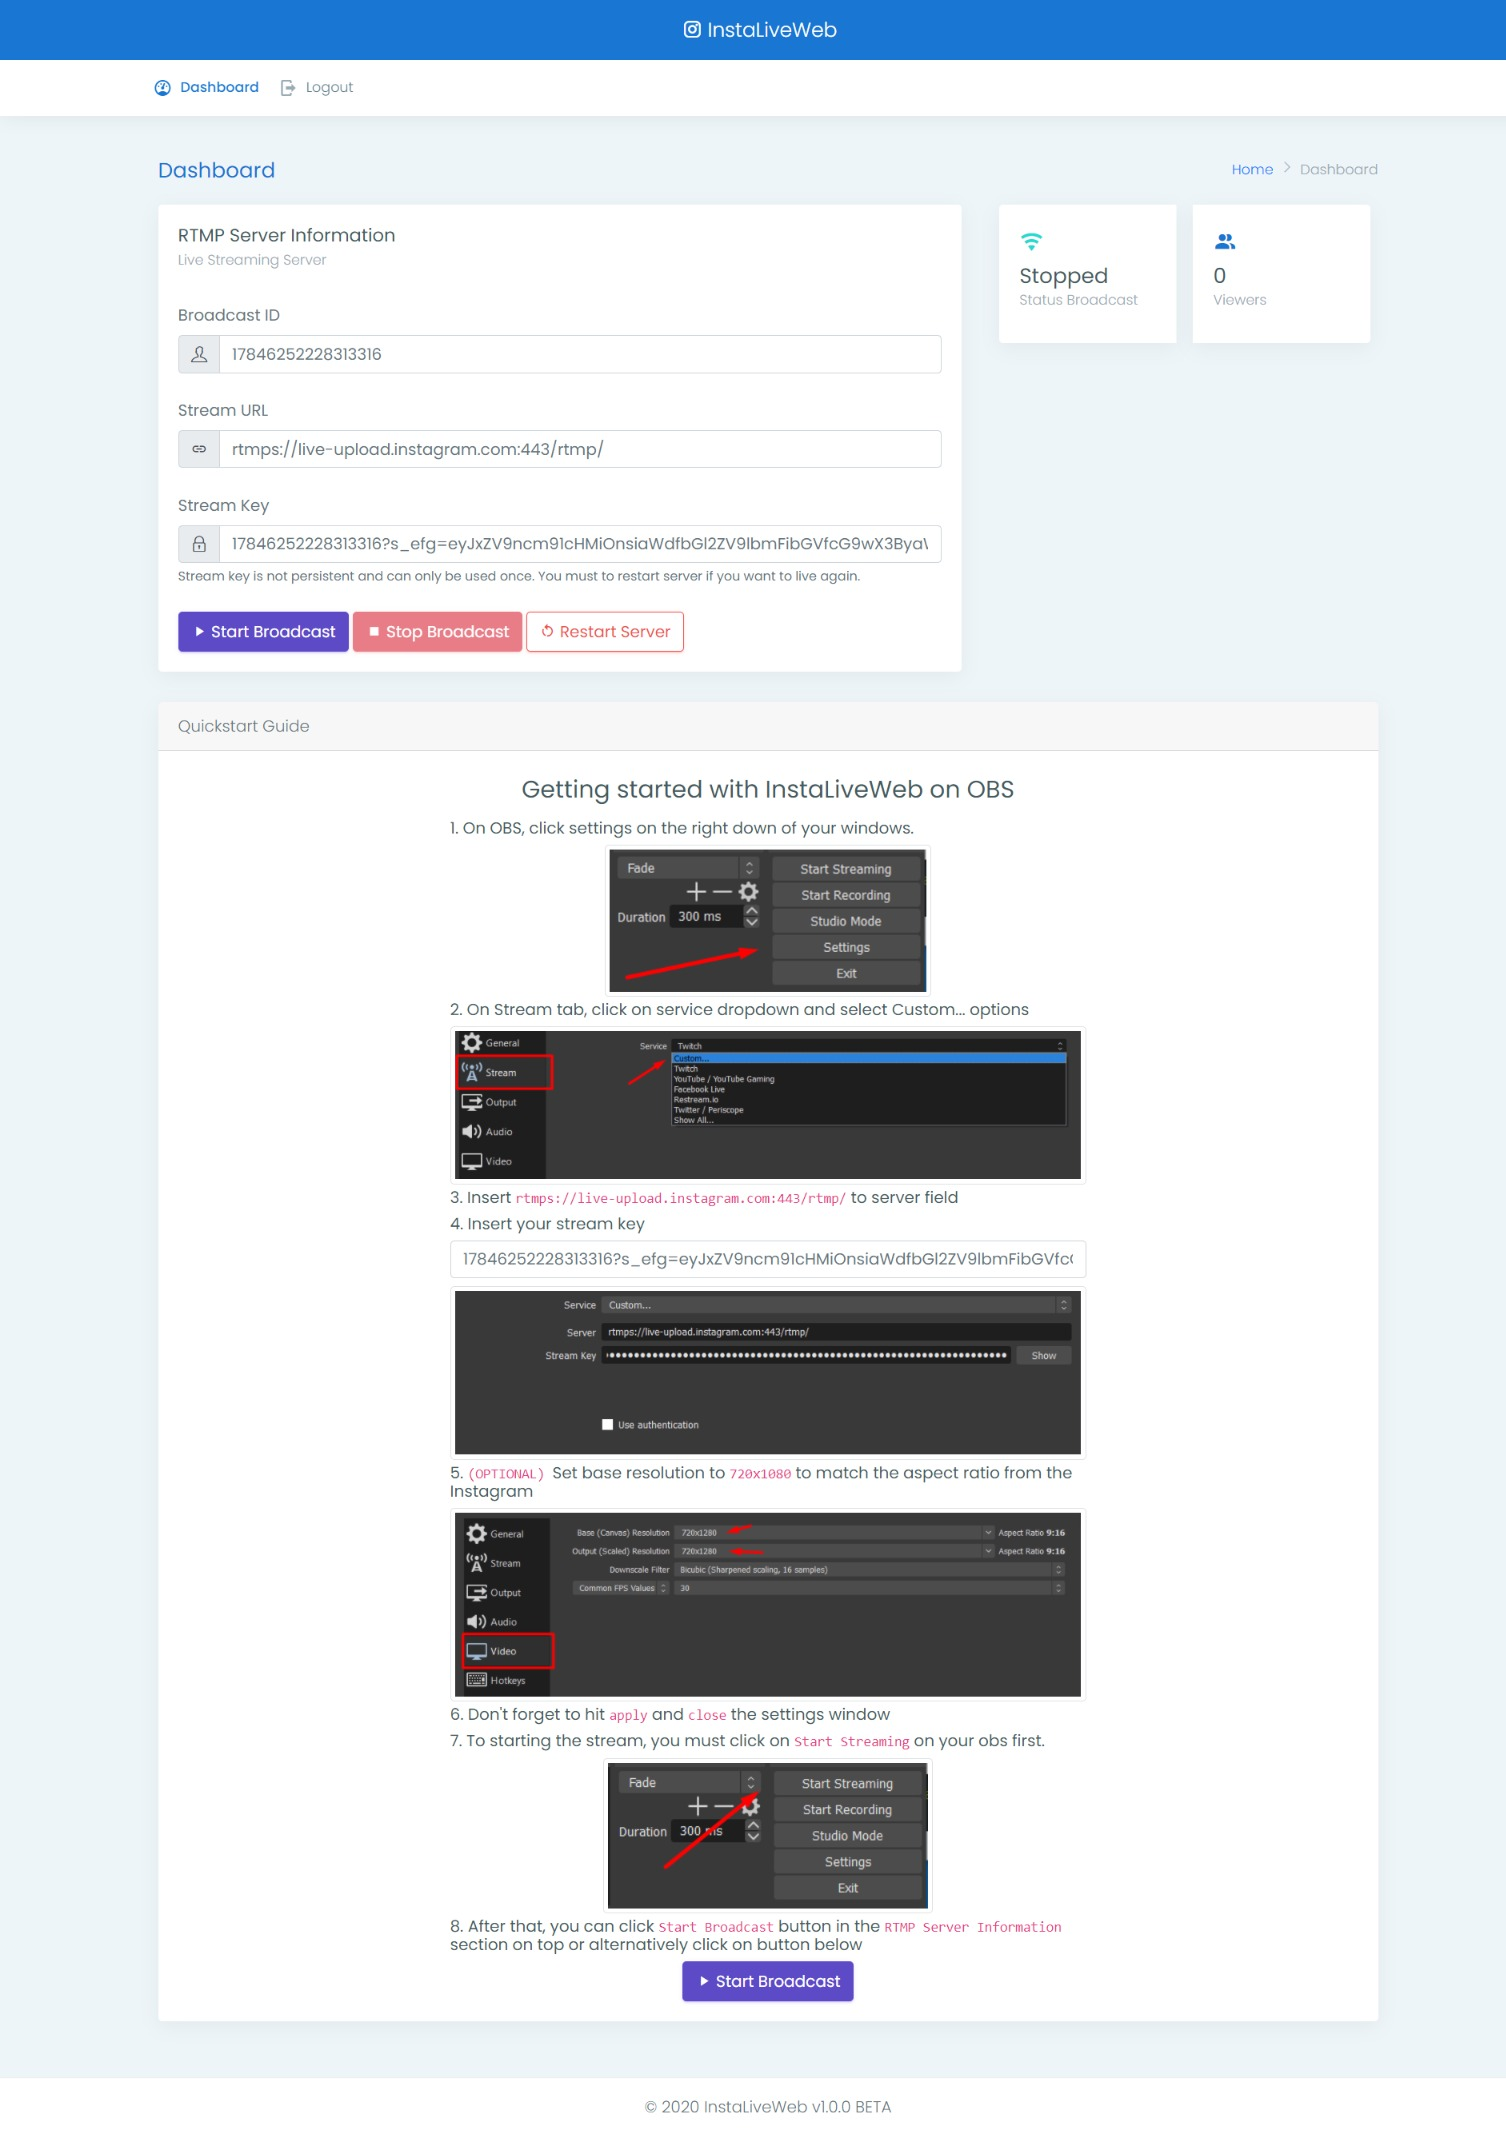
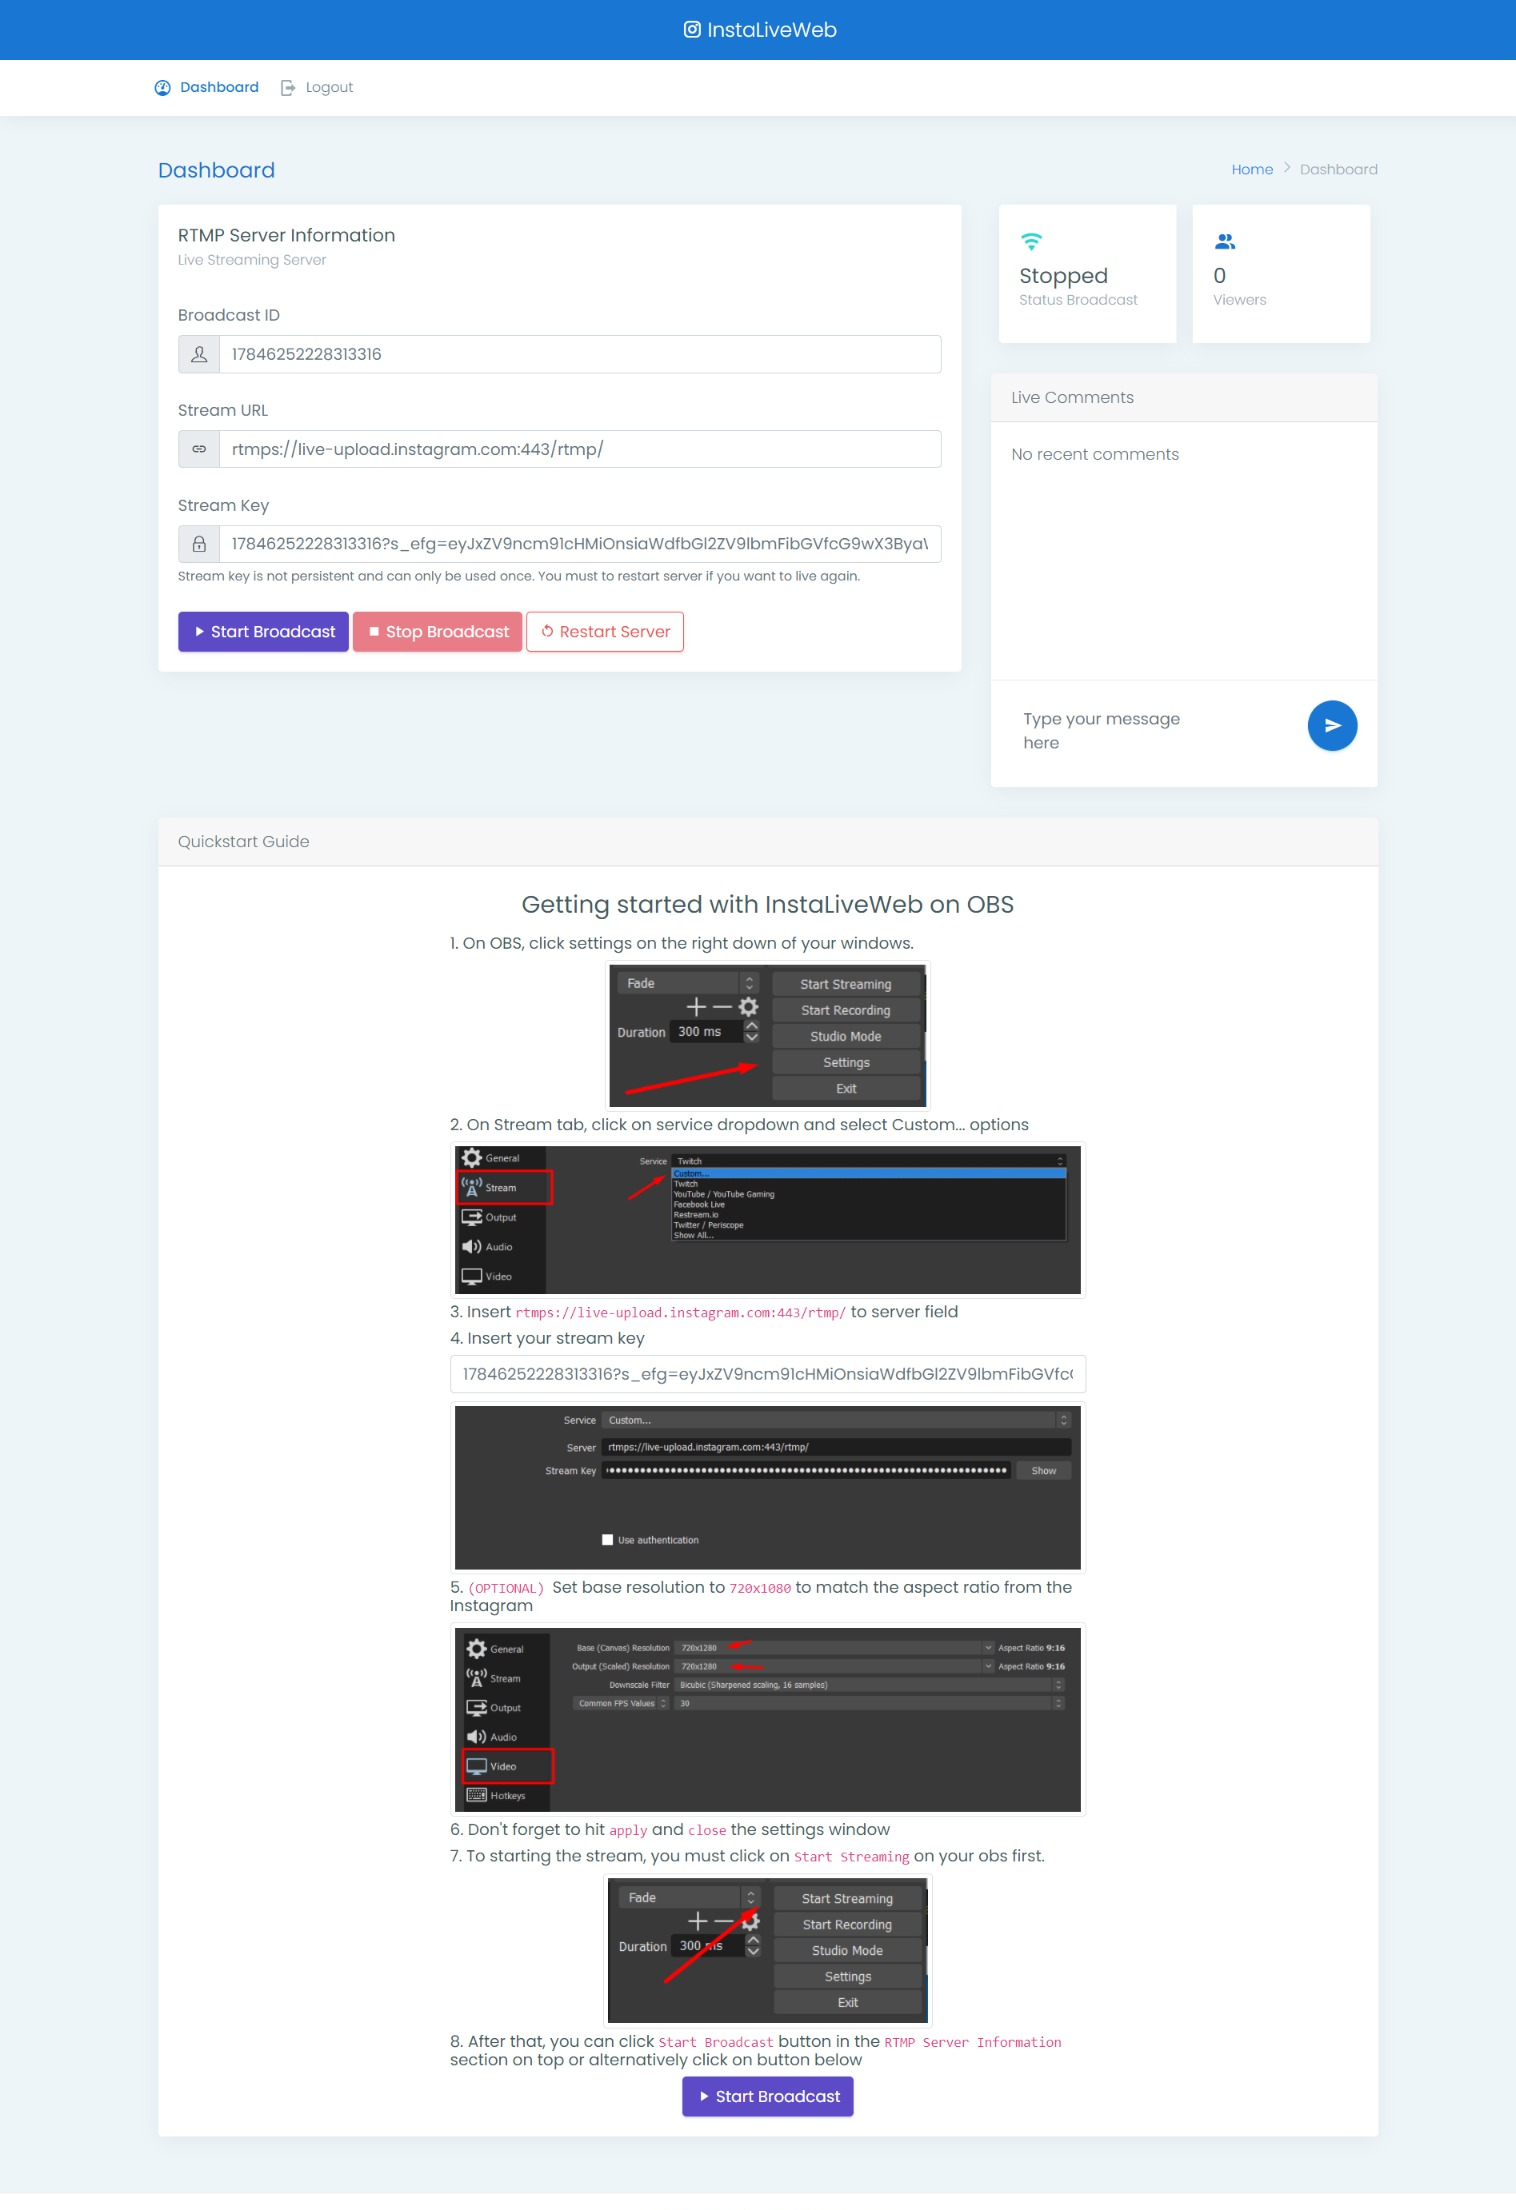
update v1.2.0

diff --git a/config.py b/config.py
@@ -2,7 +2,7 @@ import os
 
 class Config:
 
-    VERSION = '1.0.0'
+    VERSION = '1.2.0'
 
     if os.environ.get('SECRET_KEY'):
         SECRET_KEY = os.environ.get('SECRET_KEY')

diff --git a/CHANGELOG.md b/CHANGELOG.md
@@ -7,6 +7,12 @@ and this project adheres to [Semantic Versioning](https://semver.org/spec/v2.0.0
 
 ## [Unreleased]
 
+### Added
+
+- Add Comments Section
+- Display Live Comments
+- Send Comments
+
 ### Fixed
 
 - Start Broadcast Button on quickstart not working

diff --git a/README.md b/README.md
@@ -11,10 +11,10 @@
 - Start and Stop Broadcast
 - Refresh Stream Key
 - Display Viewers
+- Display Live Comments
 
 ## Upcoming Features
 
-- [ ] Display Live Comments
 - [ ] Storing and Loading Cookies
 - [ ] Proxy Support
 - [ ] Multi Accounts
